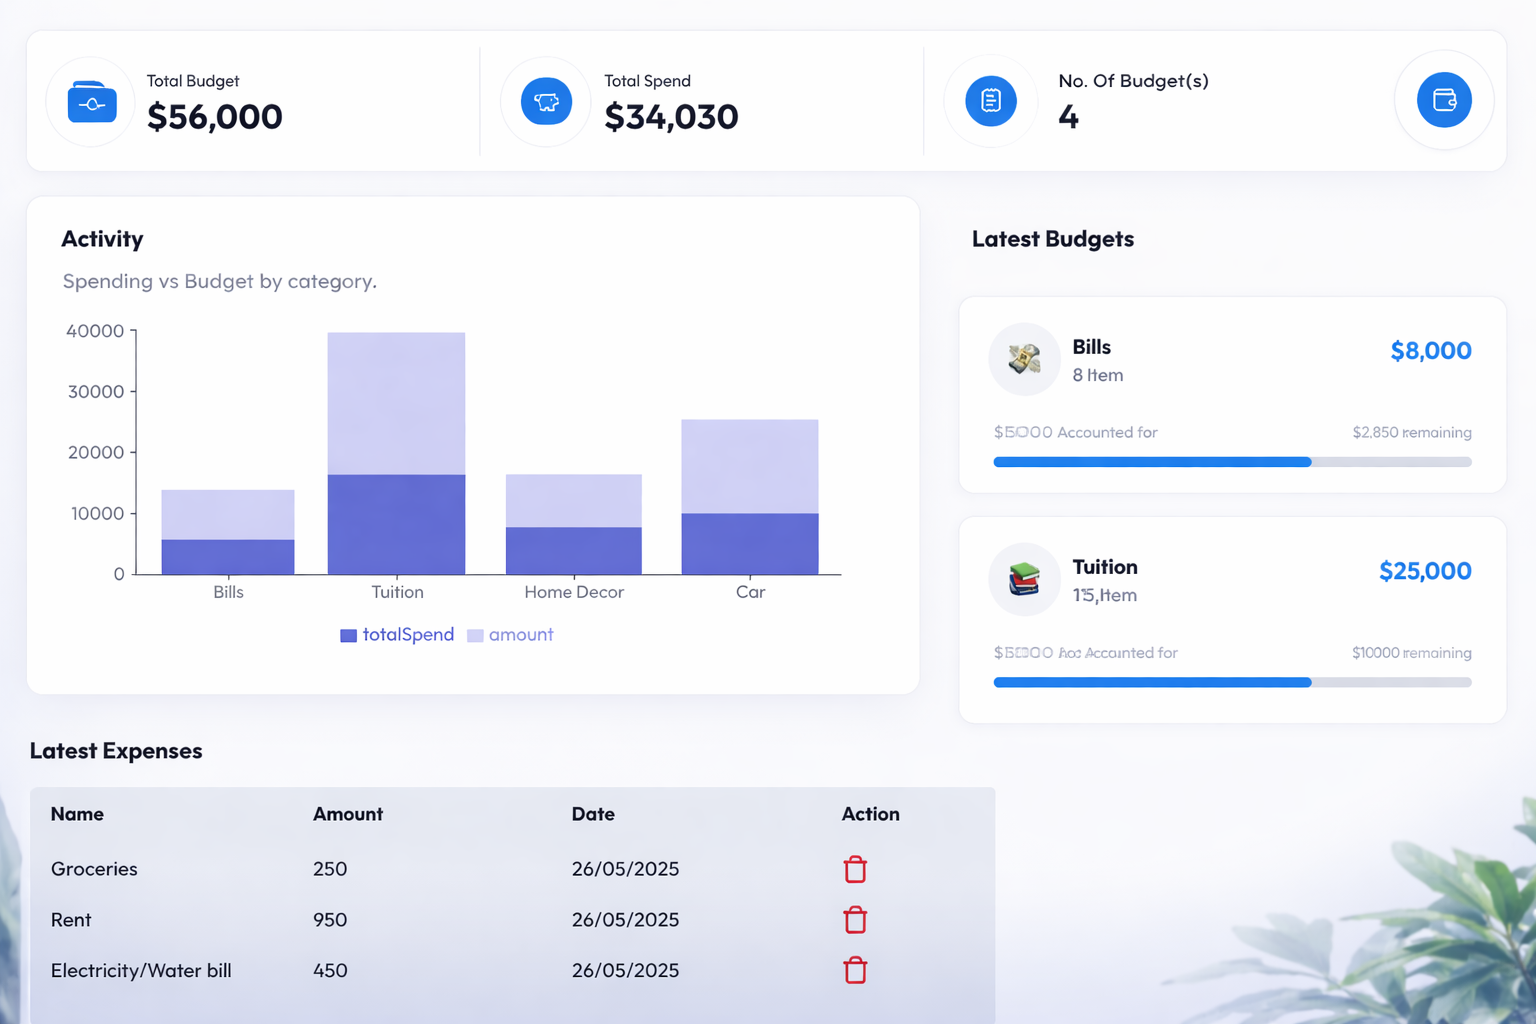
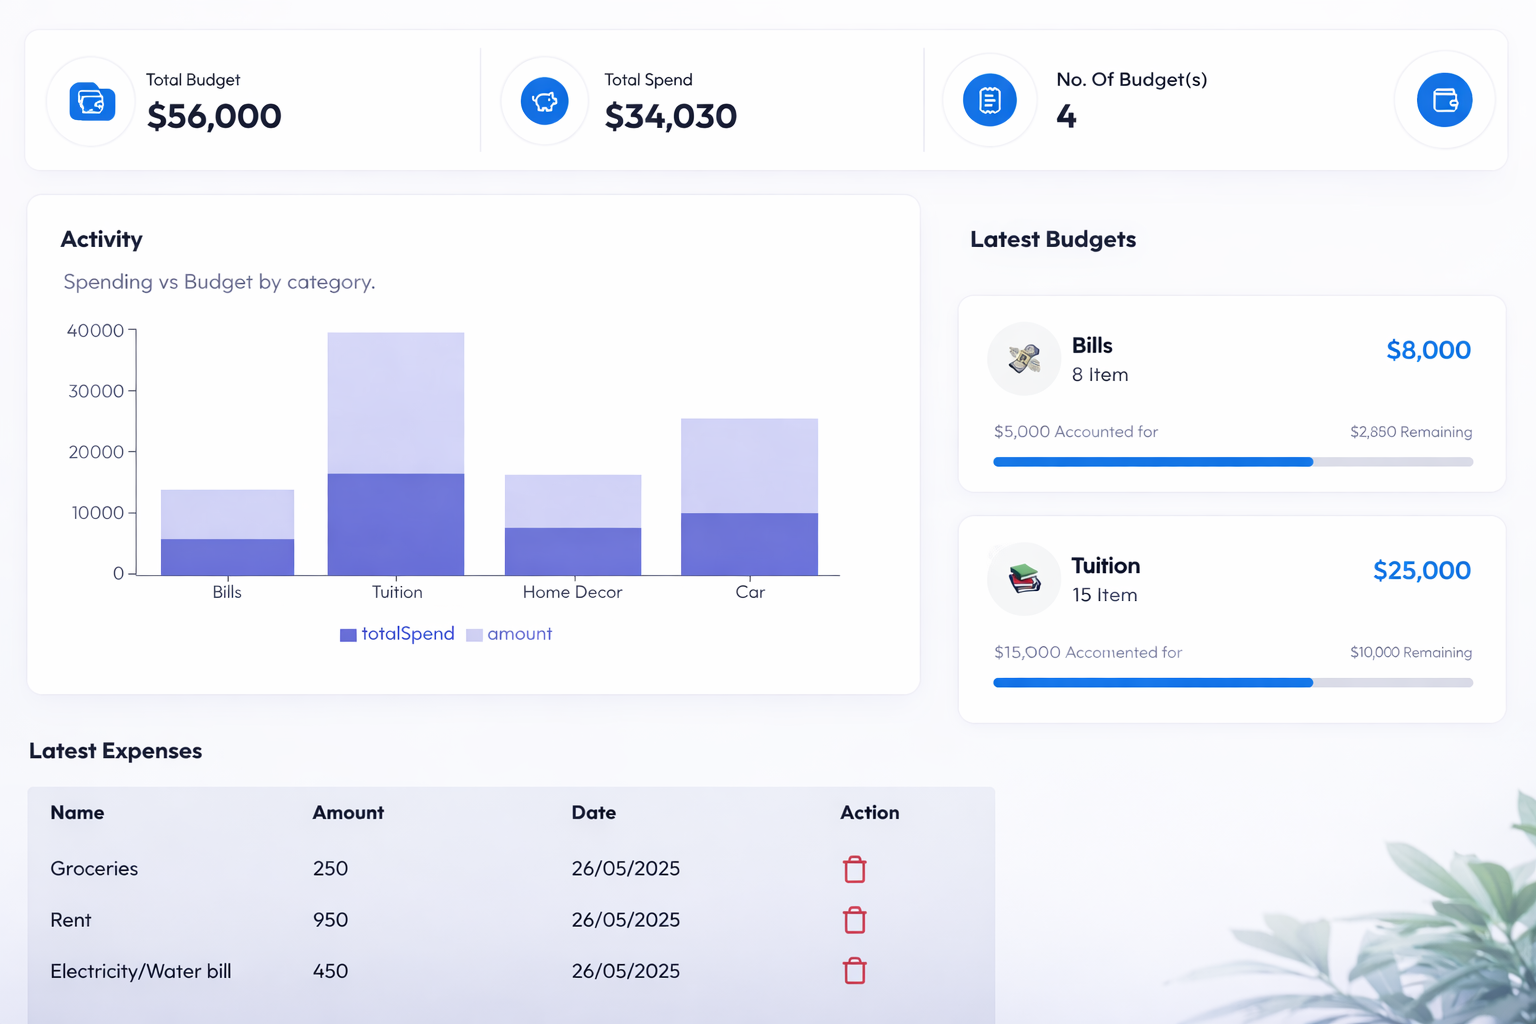
Update Dashboard and Landing page

diff --git a/app/layout.js b/app/layout.js
@@ -11,9 +11,13 @@ const outfit = Outfit({
 });
 
 export const metadata = {
-  title: "Create Next App",
-  description: "Generated by create next app",
+  title: {
+    default: "Easy Expense",
+    template: "%s | Easy Expense",
+  },
+  description: "Modern expense tracking made simple",
 };
+
 
 export default function RootLayout({ children }) {
   return (

diff --git a/app/_components/Hero.jsx b/app/_components/Hero.jsx
@@ -52,7 +52,7 @@ function Hero() {
         {/* Dashboard preview (keep it bright + clean) */}
         <div className="relative z-20 -mt-16 sm:-mt-20 px-4">
           <Image
-            src="/dashboardnew.png"
+            src="/dashboard1.png"
             alt="Dashboard preview"
             width={1400}
             height={900}
